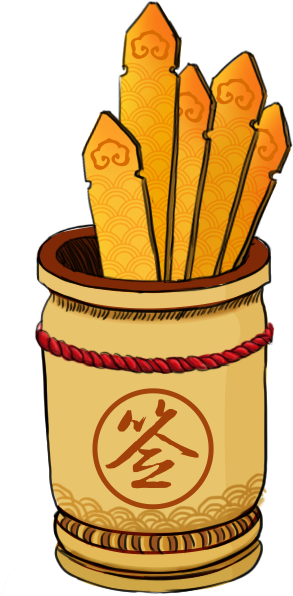
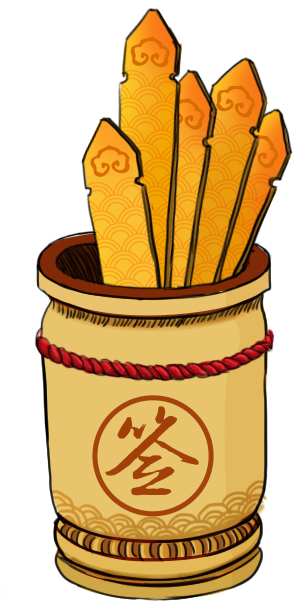
增加动画

Changed region(s): [[0.0922, 0.0, 1.0, 0.9966]]

diff --git a/src/metro/css/index.css b/src/metro/css/index.css
@@ -1510,7 +1510,7 @@ body { position: absolute; top: 0; left: 0; width: 100%; height: 100%; overflow:
 
 .container { position: relative; width: 100%; height: 100%; overflow: hidden; }
 
-.container img { display: block; width: 100%; }
+.container img { display: block; width: 100%; pointer-events: none; -webkit-user-select: none; -moz-user-select: none; -ms-user-select: none; user-select: none; }
 
 .container .page { position: relative; width: 100%; height: 100%; background-color: #ba131a; }
 
@@ -1574,7 +1574,11 @@ body { position: absolute; top: 0; left: 0; width: 100%; height: 100%; overflow:
 
 .container .page1 .draw .projection { width: 100%; }
 
-.container .page1 .draw .draw1 { position: absolute; bottom: .32rem; left: -.24rem; width: 6rem; }
+.container .page1 .draw .draw1 { position: absolute; bottom: .32rem; left: -.24rem; width: 100%; background: url(../images/draw1.png) no-repeat bottom center/100%; }
+
+.container .page1 .draw .draw1.active { -webkit-animation: draw 1s 2; animation: draw 1s 2; }
+
+.container .page1 .draw .draw1 img { opacity: 0; }
 
 .container .page1 .dog2 { position: absolute; bottom: 12.6%; left: 9.56rem; width: 3.52rem; z-index: 4; }
 
@@ -1604,11 +1608,19 @@ body { position: absolute; top: 0; left: 0; width: 100%; height: 100%; overflow:
 
 .container .page2 .signBox .guide { position: absolute; top: 100%; left: 0; width: 100%; margin-top: -.6rem; }
 
-.container .page2 .signBox .guide .tip img { width: 6.36rem; margin: 0 auto; }
+.container .page2 .signBox .guide .tip { -webkit-animation-duration: 2s; animation-duration: 2s; }
 
-.container .page2 .signBox .guide .btns { width: 85%; margin: 0 auto; margin-top: .52rem; display: -webkit-box; display: -webkit-flex; display: -ms-flexbox; display: flex; -webkit-box-pack: justify; -webkit-justify-content: space-between; -ms-flex-pack: justify; justify-content: space-between; -webkit-box-align: center; -webkit-align-items: center; -ms-flex-align: center; align-items: center; }
+.container .page2 .signBox .guide .tip img { width: 6.36rem; margin: 0 auto; -webkit-animation-duration: 2s; animation-duration: 2s; }
 
-.container .page2 .signBox .guide .btns img { width: 5.24rem; }
+.container .page2 .signBox .guide .btns { position: relative; z-index: 100; width: 85%; margin: 0 auto; margin-top: .52rem; display: -webkit-box; display: -webkit-flex; display: -ms-flexbox; display: flex; -webkit-box-pack: justify; -webkit-justify-content: space-between; -ms-flex-pack: justify; justify-content: space-between; -webkit-box-align: center; -webkit-align-items: center; -ms-flex-align: center; align-items: center; }
+
+.container .page2 .signBox .guide .btns a { text-decoration: none; outline: 0 none; }
+
+.container .page2 .signBox .guide .btns a.receive { -webkit-animation-delay: 2s; animation-delay: 2s; }
+
+.container .page2 .signBox .guide .btns a.share { -webkit-animation-delay: 2.5s; animation-delay: 2.5s; }
+
+.container .page2 .signBox .guide .btns a img { width: 5.24rem; }
 
 .container .page2 .signBox .qrcodes { display: none; position: absolute; top: 100%; left: 0; width: 100%; margin-top: .6rem; }
 
@@ -1621,3 +1633,13 @@ body { position: absolute; top: 0; left: 0; width: 100%; height: 100%; overflow:
 .container .page2 .signBox .qrcodes .word2 { width: 4.08rem; margin-top: .24rem; }
 
 .container .page2 .synthesis { position: absolute; top: 0; left: 0; width: 100%; height: 100%; z-index: 2; opacity: 0; }
+
+.container .page2 .synthesis img { pointer-events: auto; }
+
+@-webkit-keyframes draw { 0% { background-image: url(../images/draw1.png); }
+  50% { background-image: url(../images/draw2.png); }
+  100% { background-image: url(../images/draw3.png); } }
+
+@keyframes draw { 0% { background-image: url(../images/draw1.png); }
+  50% { background-image: url(../images/draw2.png); }
+  100% { background-image: url(../images/draw3.png); } }

diff --git a/src/metro/home.html b/src/metro/home.html
@@ -41,12 +41,14 @@
         <div class="confetti2 animated flash infinite">
             <img src="./images/confetti2.png" />
         </div>
-        <div class="word1 animated swing infinite">
+        <div class="word1 animated wobble infinite">
             <img src="./images/word1.png" />
         </div>
         <div class="television">
             <img src="./images/television.png" />
-            <img src="./images/play.png" class="play" id="play" />
+            <div class="play" id="play">
+              <img src="./images/play.png" />
+            </div>
         </div>
         <div class="loadingBox">
           <div class="loadingGroup">
@@ -117,7 +119,10 @@
         </div>
         <!-- 抽签 -->
         <div class="draw">
-          <img src="./images/draw1.png" class="draw1" />
+          <div class="draw1">
+              <img src="./images/draw1.png" />
+          </div>
+          <!-- <img src="./images/draw1.png" class="draw1" /> -->
           <img src="./images/projection.png" class="projection" />
         </div>
         <!-- 狗2 -->
@@ -145,12 +150,16 @@
               <img src="./images/keyword1.png" />
           </div>
           <div class="guide">
-            <div class="tip">
+            <div class="tip animated pulse infinite">
                 <img src="./images/tip.png" />
             </div>
             <div class="btns">
-              <img src="./images/btn1.png" />
-              <img src="./images/btn2.png" />
+              <a id="receive" class="receive animated bounceInUp">
+                  <img src="./images/btn1.png" />
+              </a>
+              <a id="share" class="share animated bounceInUp">
+                <img src="./images/btn2.png" />
+              </a>
             </div>
           </div>
           <div class="qrcodes">

diff --git a/src/metro/scss/index.scss b/src/metro/scss/index.scss
@@ -18,6 +18,8 @@ body{
 	img{
 		display: block;
 		width: 100%;
+		pointer-events: none; 
+		user-select:none;
 	}
 	.page{
 		position: relative;
@@ -242,7 +244,15 @@ body{
 				position: absolute;
 				bottom: .32rem;
 				left: -.24rem;
-				width: 6rem;
+				// width: 6rem;
+				width: 100%;
+				background: url(../images/draw1.png) no-repeat bottom center/100%;
+				&.active{
+					animation: draw 1s 2;
+				}
+				img{
+					opacity: 0;
+				}
 			}
 		}
 		// 狗2
@@ -322,20 +332,36 @@ body{
 				width: 100%;
 				margin-top: -.6rem;
 				.tip{
+					-webkit-animation-duration: 2s;
+    				animation-duration: 2s;
 					img{
 						width: 6.36rem;
 						margin: 0 auto;
+						-webkit-animation-duration: 2s;
+    					animation-duration: 2s;
 					}
 				}
 				.btns{
+					position: relative;
+					z-index: 100;
 					width: 85%;
 					margin: 0 auto;
 					margin-top: .52rem;
 					display: flex;
 					justify-content: space-between;
 					align-items: center;
-					img{
-						width: 5.24rem;
+					a{
+						text-decoration: none; 
+						outline: 0 none;
+						&.receive{
+							animation-delay: 2s;
+						}
+						&.share{
+							animation-delay: 2.5s;
+						}
+						img{
+							width: 5.24rem;
+						}
 					}
 				}
 			}
@@ -370,6 +396,22 @@ body{
 			height: 100%;
 			z-index: 2;
 			opacity: 0;
+			img{
+				pointer-events: auto;
+			}
+		}
+	}
+
+	// 签筒动画
+	@keyframes draw{
+		0%   {
+			background-image: url(../images/draw1.png);		
+		}
+		50%  {
+			background-image: url(../images/draw2.png);
+		}
+		100% {
+			background-image: url(../images/draw3.png);
 		}
 	}
 }

diff --git a/src/metro/js/home.js b/src/metro/js/home.js
@@ -42,6 +42,18 @@
                 document.addEventListener('WeixinJSBridgeReady',function(){  
                     document.getElementById('shakingAudio').play();
                 },false);
+                // 2s后出现摇签动画
+                var drawTimer = setTimeout(function(){
+                    $(".draw1").addClass("active");
+                    clearTimeout(drawTimer);
+                },2000);
+                // 4s后移除摇签动画类
+                var drawTimer2 = setTimeout(function(){
+                    $(".page1").hide();
+                    $(".page2").show();
+                    $(".draw1").removeClass("active");
+                    clearTimeout(drawTimer2);
+                },4000);
 
                 //   state = false;
                 //   time = false;          
@@ -144,13 +156,21 @@
         // 长按事件
         var press = $api.domAll('#synthesis');
         new Hammer(press[0]).on('press', function(ev) {
+            $(".tip").addClass("fadeOut");
             var imgTimer = setTimeout(function(){
                 $(".tip").css("visibility","hidden");
-                $("#synthesis").hide();
                 clearTimeout(imgTimer);
             },2000);
         });
 
+        // 点击领取礼包
+        $("#receive").click("on",function(){
+            alert("领取礼包");
+        });
+        // 点击分享给好友
+        $("#share").click("on",function(){
+            alert("分享给好友");
+        });
     });
 
 })();
